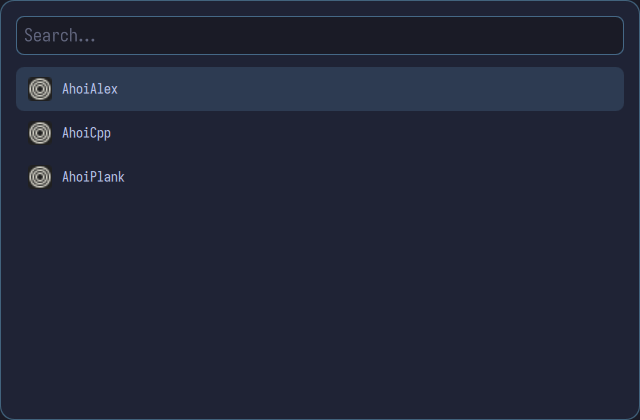
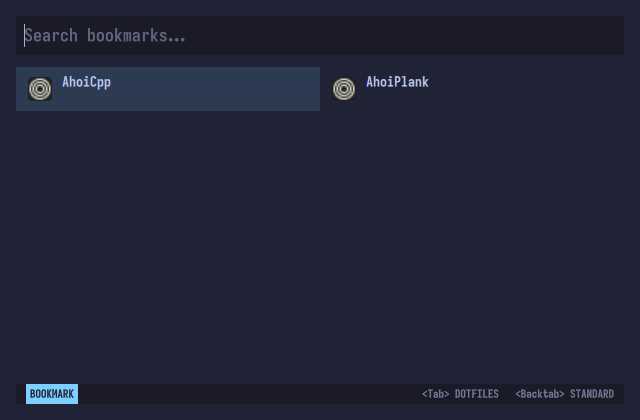
Added a new README.md for the current state with gif instead of screenshots

diff --git a/README.md b/README.md
@@ -1,17 +1,19 @@
 # AhoiPlank <img src="resources/plank.png" width="30" height="30" alt="icon">
 
-A minimal and customizable Wayland launcher built with Qt 6 and QML, bootstrapped with [AhoiCpp](https://github.com/martuscellifaria/ahoicpp.nvim).
+A customizable Wayland launcher built with Qt 6 and QML that looks pretty out of the box.
+It was bootstrapped with [AhoiCpp](https://github.com/martuscellifaria/ahoicpp.nvim).
 
 Its features are:
+- daemon
 - fuzzy search
 - standard mode for launching desktop applications
 - bookmarks mode for opening bookmarks on the browser
 - dotfiles mode for opening your dotfiles on your favorite terminal and terminal-based text editor
 - ssh mode for starting remote sessions on a separate terminal
+- vim-style status bar
+- mode switcher with Tab/BackTab
 
-`AhoiPlank` has also a daemon.
-
-![AhoiPlank window](resources/ahoiplank-window.png)
+![AhoiPlank window](resources/ahoiplank.gif)
 
 Currently tested on `sway` and `hyprland`, but should work on other Wayland compositors as well.
 Distros tested were Ubuntu 26.04 and Arch Linux, both on x86_64 and aarch64.
@@ -191,11 +193,8 @@ It will read from `~/.config/ahoiplank/bookmarks.json`. For example:
   ]
 }
 ```
-Then:
 
-![AhoiPlank bookmarks mode](resources/ahoiplank-bookmarks-window.png)
-
-And then it will open on your default browser.
+Select and then it will open on your default browser.
 
 ### SSH
 
@@ -227,8 +226,6 @@ ahoiplank --dotfiles
 ```
 
 It will read all directories inside `~/.config`. You will then be able to browse your dotfiles from in your own terminal and editor. These are set in the `config.json` file.
-
-![AhoiPlank dotfiles mode](resources/ahoiplank-dotfiles-window.png)
 
 ## Running the daemon on background
 
